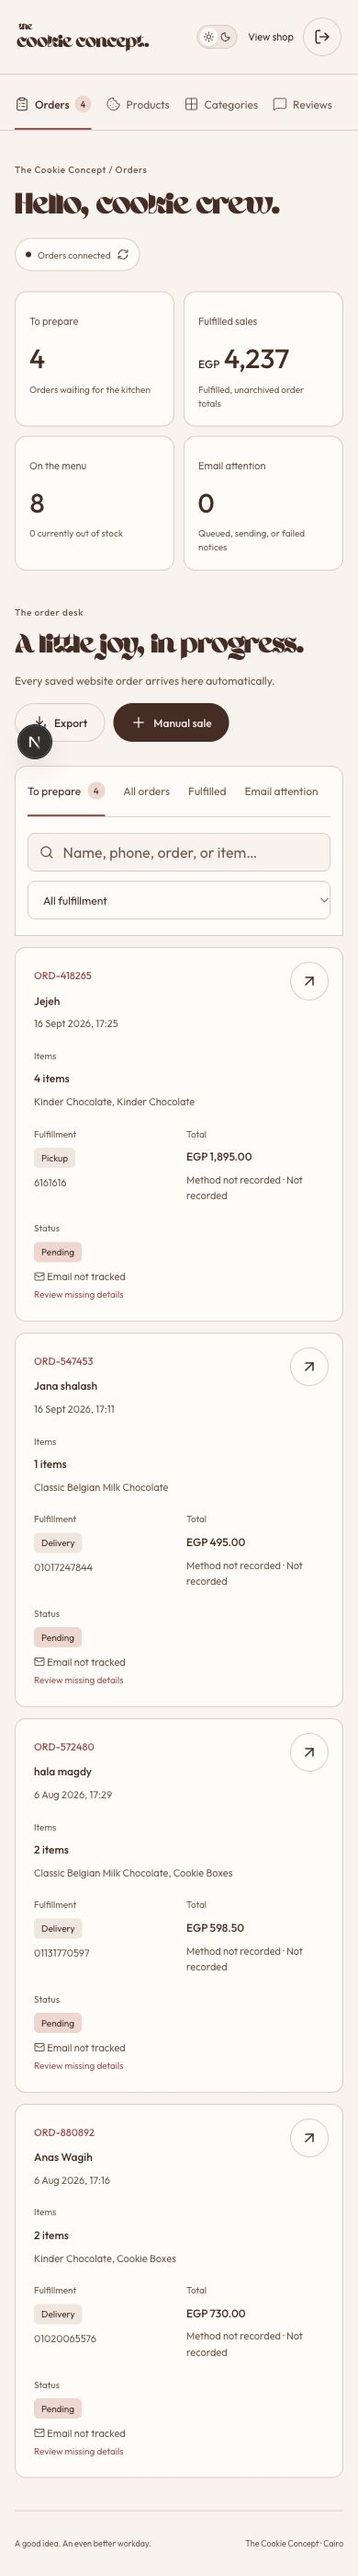
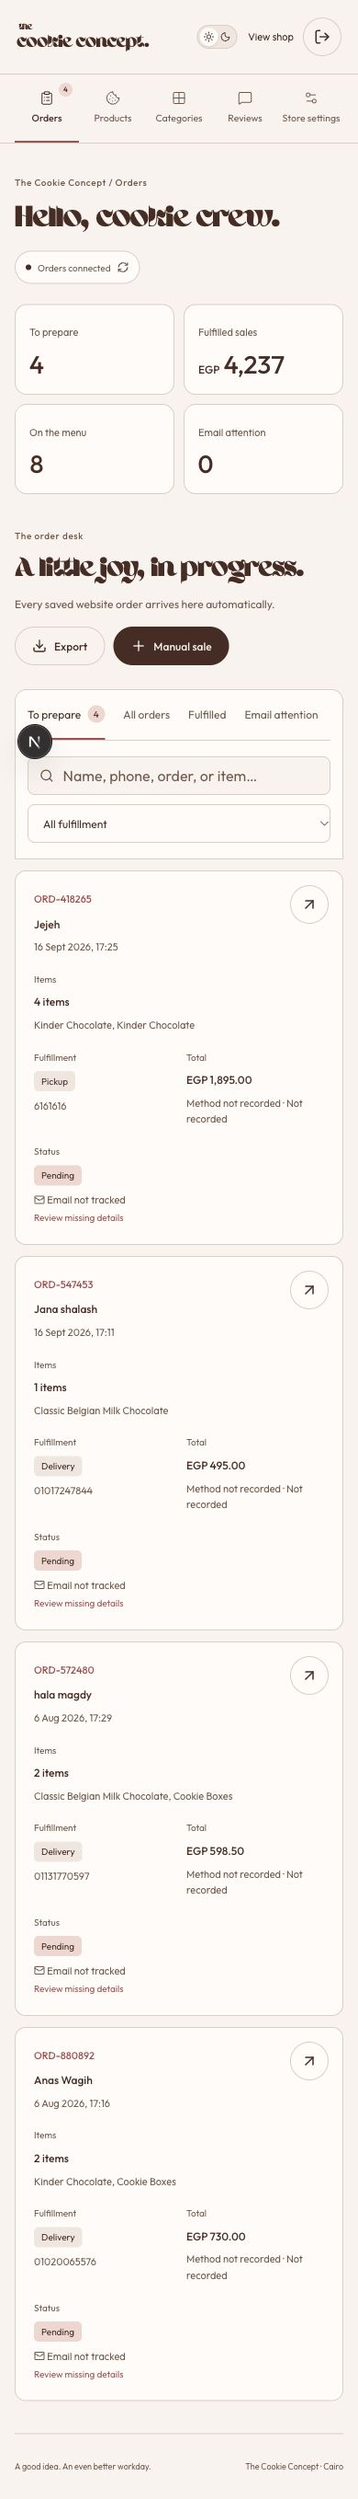
chore: update setup docs, design guidelines, order retry function, and validation assets

diff --git a/netlify/functions/order-email-retry.ts b/netlify/functions/order-email-retry.ts
@@ -1,7 +1,8 @@
-export default async () => {
+const retryOrderEmails = async () => {
   const origin = process.env.URL;
   const secret = process.env.ORDER_EMAIL_RETRY_SECRET;
   if (!origin || !secret) return new Response('Order email retry is not configured.', { status: 503 });
   return fetch(new URL('/api/internal/order-emails', origin), { method: 'POST', headers: { Authorization: `Bearer ${secret}` } });
 };
+export default retryOrderEmails;
 export const config = { schedule: '*/5 * * * *' };

diff --git a/outputs/admin/VALIDATION.md b/outputs/admin/VALIDATION.md
@@ -1,0 +1,49 @@
+# Admin dashboard verification — 16 October 2026
+
+## Result
+
+The local dashboard is connected to the real Firebase project and uses the storefront’s typography, colors and light/dark themes. The supplied service credential remains in ignored, owner-only local environment configuration. No credential is included in this report or application client code.
+
+| Previously | Implemented behavior |
+| --- | --- |
+| Checkout could report success after a failed database save | Only a confirmed server transaction returns a successful order; uncertain submissions retain their reference for recovery |
+| Repeated requests could create duplicate work | Deterministic order reference, receipt check and transaction reserve inventory once |
+| Order email trusted a browser payload and could disappear | Email is rendered from the saved order and backed by a durable retry job |
+| Dashboard order list could become stale | Live subscription reports connection/cache/write states and supports reconnect |
+| Dense admin controls did not match the storefront | Dedicated warm workspace, readable details, responsive navigation, native dialogs and visible action feedback |
+| Missing historical payment/details could appear authoritative | Incomplete records remain readable and explicitly flag missing information |
+| Editing a product could overwrite stock reserved during checkout | Transactions preserve newer stock or reject conflicting explicit stock edits |
+
+## Automated checks
+
+- `node --test tests/*.test.cjs`: **39 passed, 0 failed**. Includes transaction atomicity, concurrent retries, persistence failures, inventory aggregation, option/promo/delivery validation, receipt conflicts, response-loss recovery, email completeness/escaping, SMTP retries/ambiguous acceptance, legacy order normalization, CSV safety, stock-edit conflicts, image fallback, pickup parsing and review submission failures.
+- ESLint on the changed admin, API, ordering, context, checkout and scheduled-worker files: **passed with no errors or warnings** after the final worker-export adjustment.
+- `npx next build --webpack`: **passed**, including TypeScript and all 19 generated pages. The default Turbopack build hit a local process/port permission failure, including when retried outside the sandbox. The alternate production compiler completed successfully.
+- Build emitted an existing missing `metadataBase` warning for social preview URLs; configure the published origin during deployment.
+
+## Live verification
+
+- Firebase service-account authentication and database reads passed.
+- Existing staff account’s admin claim was configured and verified; authenticated dashboard access and the server readiness check passed.
+- An isolated `verificationRuns` database namespace exercised the actual order transaction and realtime subscription: concurrent identical requests produced one order, one inventory reduction and one email job. Temporary verification data was cleaned up.
+- Existing orders, products, categories, review moderation, settings, order details and editing forms were inspected in the signed-in browser. Real customer fulfillment, payment and archive states were not changed for testing.
+- Actual crop/upload to staff image storage completed; its temporary image was removed after verification. Uploads subsequently gained cancellation and a bounded timeout; that final cancellation branch was type/lint checked rather than exercised against another live upload.
+- SMTP authentication/connection passed. **No real order notification was sent**. `order-email-preview.html` and `.txt` contain fictional preview data only.
+- Desktop at 1440px and phones at 390px/320px checked. All five mobile navigation items fit, the 320px document has no horizontal overflow, and both themes render. Temporary viewport overrides were cleared.
+- Pickup settings use the requested Second New Cairo location. Original catalog categories were restored only where missing.
+
+## Deployment work still required
+
+Follow `ADMIN_SETUP.md` to configure hosting secrets, deploy the app and Netlify scheduled worker, and merge the supplied Firestore rules with the existing catalog/review rules. Production rules and scheduler were not deployed in this session. Verify an authorized staging order’s received email and scheduler logs before launch. SMTP acceptance alone does not establish inbox delivery.
+
+Dependency audit reports **0 critical and 9 high advisories** remaining through Firebase client gRPC and development glob/braces dependencies. Direct Next.js and Nodemailer updates were applied; forced major downgrades proposed by npm were not applied. The remaining dependency chains require a separate compatible remediation review.
+
+## Screenshots and previews
+
+- `dashboard-desktop.png`
+- `dashboard-mobile-light.png`
+- `dashboard-mobile-dark.png` (captured before the final compact-navigation adjustment)
+- `order-details.png`
+- `settings-desktop.png`
+- `order-email-preview.html`
+- `order-email-preview.txt`

diff --git a/ADMIN_SETUP.md b/ADMIN_SETUP.md
@@ -4,6 +4,8 @@ The new dashboard matches the storefront and subscribes to saved Firestore order
 
 ## One-time Firebase setup
 
+Local setup is complete as of 16 October 2026: the supplied service account is stored in ignored, owner-only `.env.local`, the existing staff account has its admin claim, live database transactions and order subscriptions passed verification, and SMTP authentication succeeded. No real test notification was sent. The hosting environment, scheduled worker and production rules still require the coordinated deployment steps below.
+
 1. In [Firebase Service accounts](https://console.firebase.google.com/project/thecc-1e732/settings/serviceaccounts/adminsdk), choose **Generate new private key** and download it. Never commit it, upload it to the site, or paste it into chat.
 2. Sign into the website admin dashboard. Open **Store settings** and copy **Staff user ID**.
 3. In the project terminal, replace the file path and user ID below, then run:
@@ -42,4 +44,4 @@ Order archive preserves the original record and does not change stock. Fulfillme
 - Confirm an unauthenticated browser cannot list orders or write catalog/stock/settings.
 - Check Netlify scheduled-function logs and SMTP inbox/bounce handling.
 
-No software can guarantee uninterrupted network, database, hosting, or inbox delivery. The implementation makes saved-order confirmation explicit, failures visible, and retries recoverable. Live end-to-end verification remains dependent on configured server credentials, deployed rules, a running scheduler and a working mail account.
+No software can guarantee uninterrupted network, database, hosting, or inbox delivery. The implementation makes saved-order confirmation explicit, failures visible, and retries recoverable. Published-site end-to-end verification still requires hosting credentials, deployed rules, a running scheduler and an authorized test email. See `outputs/admin/VALIDATION.md` for completed local and live Firebase checks.

diff --git a/DESIGN.md b/DESIGN.md
@@ -251,6 +251,8 @@ Product/box dialogs lock background scroll, contain keyboard focus, close with E
 
 ## Do's and Don'ts
 
+The bakery workspace uses these same paper, chocolate, blush and semantic theme tokens. Ahsing is reserved for short headings and the wordmark; Outfit handles tables, metrics and controls. Its dedicated header and desktop sidebar become a five-item navigation grid on phones, with an immediate light/dark switch. Order details, product editing and photo cropping use focus-contained native dialogs. Data states are part of the interface: live/cached connections, incomplete historical records, uncertain saves, notification failures and recoverable archives remain visible. The workspace styles are scoped to the admin route in `src/app/admin/admin.css`.
+
 ### Do:
 - **Do** use actual catalog photography, prices and stored customer submissions.
 - **Do** preserve the warm paper ground, the final muted text token and the Ahsing/Outfit role split.
